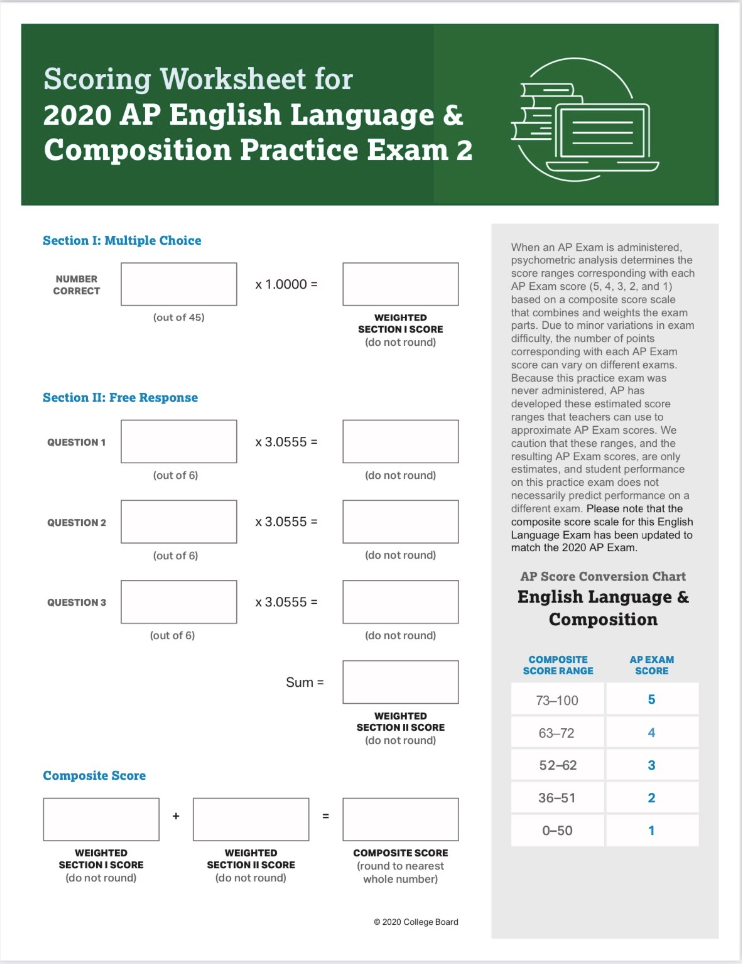
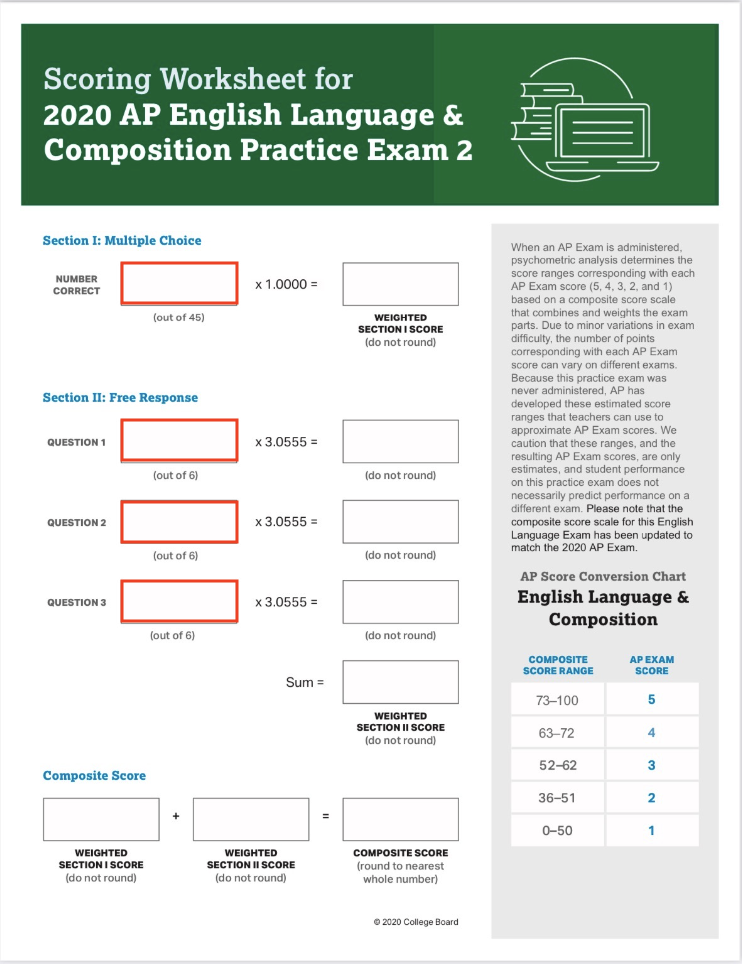
boxes

diff --git a/calculator.js b/calculator.js
@@ -11,36 +11,56 @@ var sum = 0;
 var weighted_1 = 0;
 var weighted_2 = 0;
 var composite = 0;
+var score = 1;
 	
 function update(){
     section_1_input = parseInt(document.getElementById("section 1 in").value);
-    console.log(document.getElementById("section 1 in").value);
     section_2_1_input = parseInt(document.getElementById("section 2.1 in").value);
     section_2_2_input = parseInt(document.getElementById("section 2.2 in").value);
     section_2_3_input = parseInt(document.getElementById("section 2.3 in").value);
-    console.log("section 1 is" + section_1_input);
-    console.log("section 2 is" + section_2_1_input);
-    if (isNaN(section_1_input) || isNaN(section_2_1_input) || isNaN(section_2_2_input) || isNaN(section_2_2_input)) {
+    if (isNaN(section_1_input)){
         section_1_out = 0;
-        section_2_1_out = 0;
-        section_2_2_out = 0;
-        section_2_3_out = 0;
-        sum = 0;
-        weighted_1 = 0;
-        weighted_2 = 0;
-        composite = 0;
     }
-    else{
+    else {
         section_1_out = section_1_input;
-        section_2_1_out = section_2_1_input * 3.0555;
-        section_2_2_out = section_2_2_input * 3.0555;
-        section_2_3_out = section_2_3_input * 3.0555;
-        sum = section_2_1_out+section_2_2_out+section_2_3_out;
-        weighted_1 = section_1_out;
-        weighted_2 = sum;
-        composite = Math.round(weighted_1+weighted_2);
     }
-    console.log(composite);
+    if (isNaN(section_2_1_input)){
+        section_2_1_out = 0;
+    }
+    else {
+        section_2_1_out = section_2_1_input * 3.0555;
+    }
+    if (isNaN(section_2_2_input)){
+        section_2_2_out = 0;
+    }
+    else {
+        section_2_2_out = section_2_2_input * 3.0555;
+    }
+    if (isNaN(section_2_3_input)) {
+        section_2_3_out = 0;
+    }
+    else {
+        section_2_3_out = section_2_3_input * 3.0555;
+    }
+    sum = section_2_1_out+section_2_2_out+section_2_3_out;
+    weighted_1 = section_1_out;
+    weighted_2 = sum;
+    composite = Math.round(weighted_1+weighted_2);
+    if (composite < 36){
+        score = 1;
+    }
+    else if (composite < 52){
+        score = 2;
+    }
+    else if (composite < 63){
+        score = 3;
+    }
+    else if (composite < 73){
+        score = 4;
+    }
+    else {
+        score = 5;
+    }
     document.getElementById("section 1 out").value = "" + section_1_out;
     document.getElementById("section 2.1 out").value = "" + section_2_1_out;
     document.getElementById("section 2.2 out").value = "" + section_2_2_out;
@@ -49,4 +69,10 @@ function update(){
     document.getElementById("weight 1").value = "" + weighted_1;
     document.getElementById("weight 2").value = "" + weighted_2;
     document.getElementById("composite score").value = "" + composite;
+    document.getElementById("1").style.border = "none";
+    document.getElementById("2").style.border = "none";
+    document.getElementById("3").style.border = "none";
+    document.getElementById("4").style.border = "none";
+    document.getElementById("5").style.border = "none";
+    document.getElementById(""+score).style.border = "4px solid #0F0";
 }

diff --git a/index.html b/index.html
@@ -78,6 +78,13 @@ input.boxes{
   top: 83.54%;
   left: 52.5%;
 }
+.box {
+  position: absolute;
+  border:none;
+  width: 11.7%;
+  height: 2.8%;
+  left: 81.7%;
+}
 </style>
 	
 </head>
@@ -96,6 +103,11 @@ input.boxes{
   <div class="weighted_s_2_score"><input type="text" class="boxes" id="weight 2"/></div>
   <div class="composite_score"><input type="text" class="boxes" id="composite score"/></div>
   <div class="sum"><input type="text" class="boxes" id="sum"/></div> 	
+  <div class="box" style="top:70.45%;" id="5"></div>
+  <div class="box" style="top:74%;" id="4"></div>
+  <div class="box" style="top:77.35%;" id="3"></div>
+  <div class="box" style="top:80.8%" id="2"></div>
+  <div class="box" style="top:84.1%;" id="1"></div>
 </div>
 
 </body>
